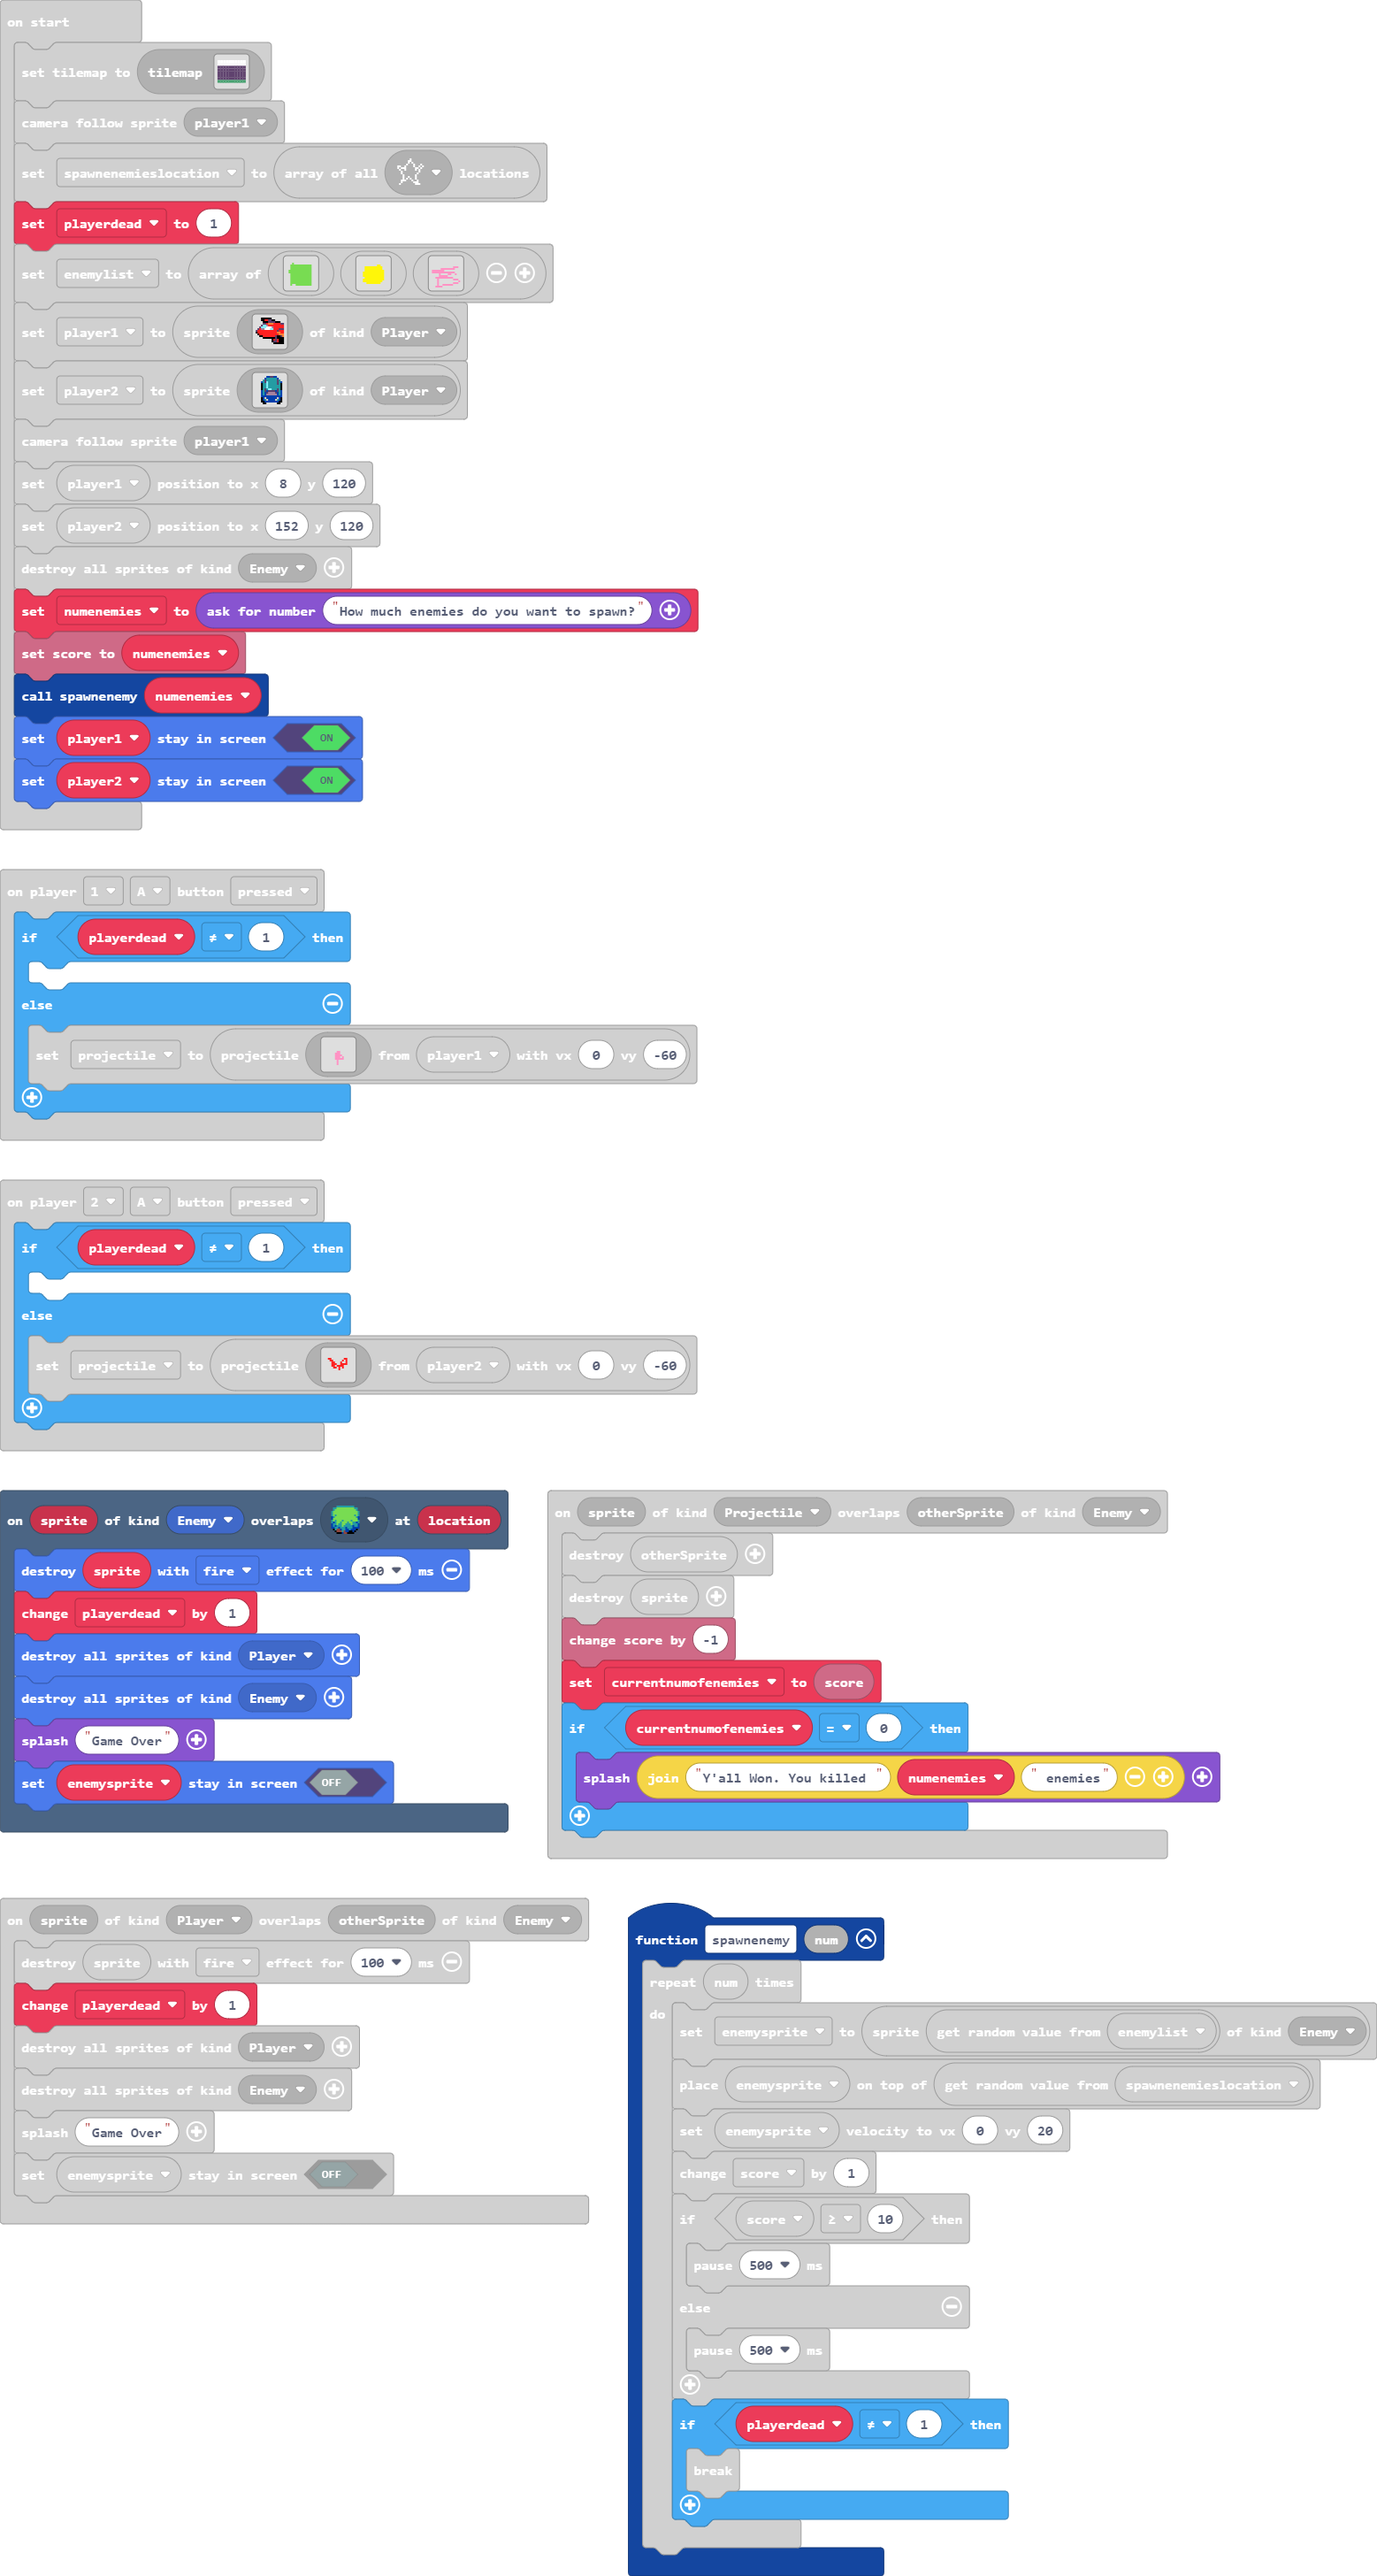
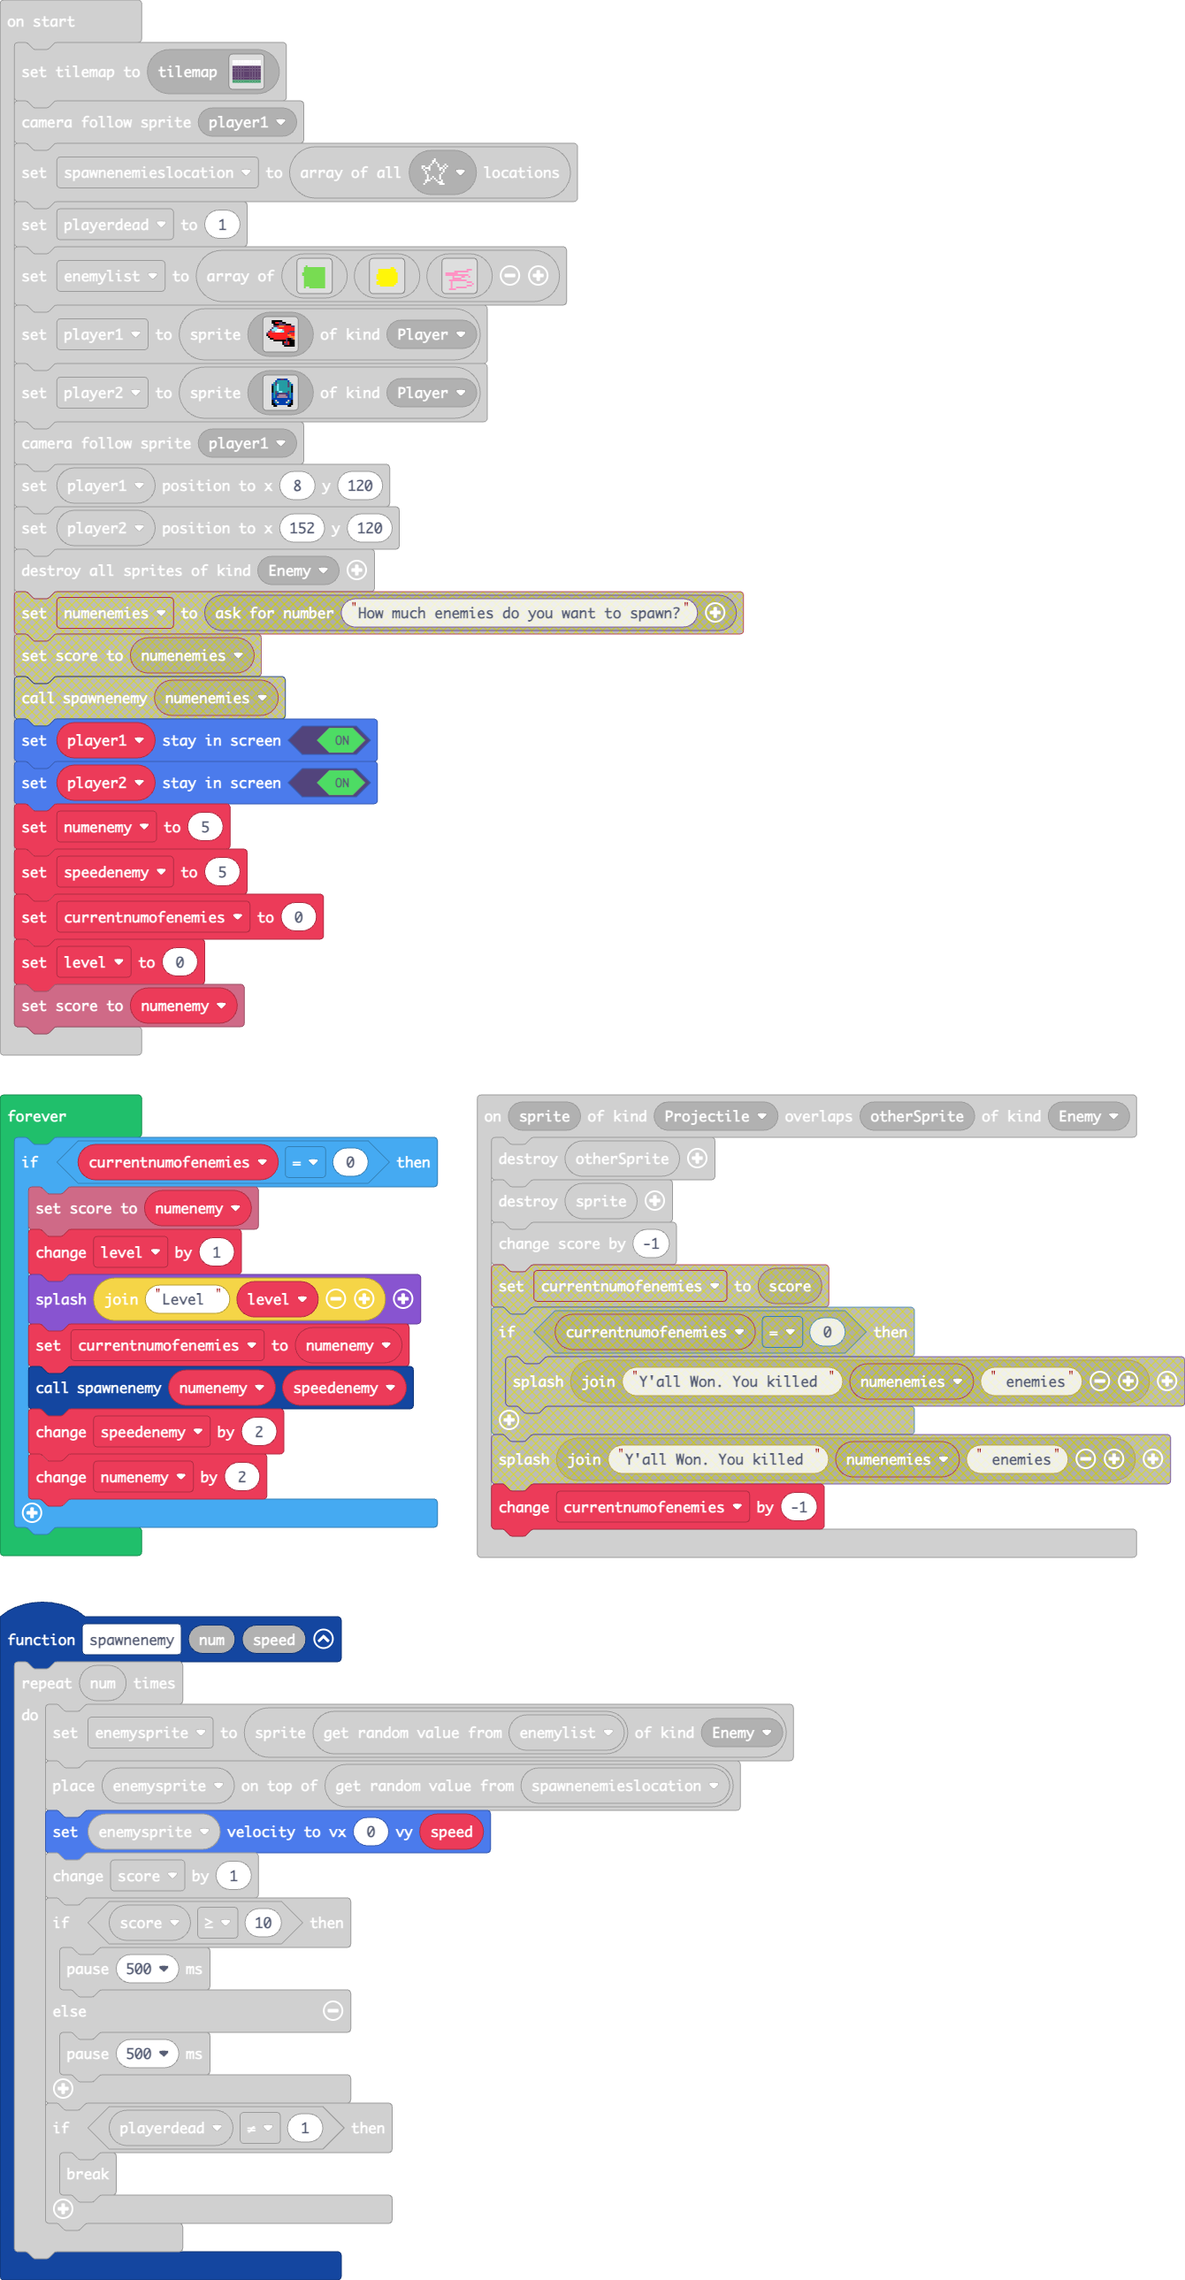
fixed florzack problem

diff --git a/main.ts b/main.ts
@@ -66,11 +66,11 @@ controller.player1.onButtonEvent(ControllerButton.A, ControllerButtonEvent.Press
             `, player1, 0, -60)
     }
 })
-function spawnenemy (num: number) {
+function spawnenemy (num: number, speed: number) {
     for (let index = 0; index < num; index++) {
         enemysprite = sprites.create(enemylist._pickRandom(), SpriteKind.Enemy)
         tiles.placeOnTile(enemysprite, spawnenemieslocation._pickRandom())
-        enemysprite.setVelocity(0, 20)
+        enemysprite.setVelocity(0, speed)
         score += 1
         if (score >= 10) {
             pause(500)
@@ -86,10 +86,7 @@ sprites.onOverlap(SpriteKind.Projectile, SpriteKind.Enemy, function (sprite, oth
     sprites.destroy(otherSprite)
     sprites.destroy(sprite)
     info.changeScoreBy(-1)
-    currentnumofenemies = info.score()
-    if (currentnumofenemies == 0) {
-        game.splash("Y'all Won. You killed " + numenemies + " enemies")
-    }
+    currentnumofenemies += -1
 })
 controller.player1.onButtonEvent(ControllerButton.Left, ControllerButtonEvent.Pressed, function () {
     player1.setVelocity(-100, 0)
@@ -102,11 +99,9 @@ sprites.onOverlap(SpriteKind.Player, SpriteKind.Enemy, function (sprite, otherSp
     game.splash("Game Over")
     enemysprite.setStayInScreen(false)
 })
-let currentnumofenemies = 0
 let score = 0
 let enemysprite: Sprite = null
 let projectile: Sprite = null
-let numenemies = 0
 let player2: Sprite = null
 let enemylist: Image[] = []
 let playerdead = 0
@@ -208,8 +203,21 @@ scene.cameraFollowSprite(player1)
 player1.setPosition(8, 120)
 player2.setPosition(152, 120)
 sprites.destroyAllSpritesOfKind(SpriteKind.Enemy)
-numenemies = game.askForNumber("How much enemies do you want to spawn?")
-info.setScore(numenemies)
-spawnenemy(numenemies)
 player1.setStayInScreen(true)
 player2.setStayInScreen(true)
+let numenemy = 5
+let speedenemy = 5
+let currentnumofenemies = 0
+let level = 0
+info.setScore(numenemy)
+forever(function () {
+    if (currentnumofenemies == 0) {
+        info.setScore(numenemy)
+        level += 1
+        game.splash("Level " + level)
+        currentnumofenemies = numenemy
+        spawnenemy(numenemy, speedenemy)
+        speedenemy += 2
+        numenemy += 2
+    }
+})
